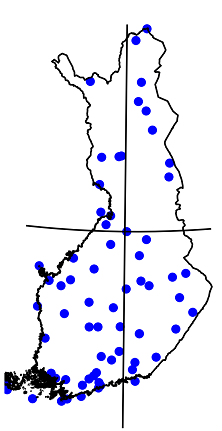
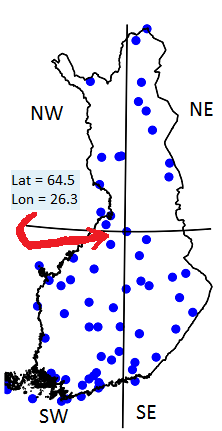
Modified image

diff --git a/README.md b/README.md
@@ -59,8 +59,10 @@ Fill in the missing parts in the starter code [classify_temperatures.py](classif
 
 ## Problem 3 - Classifying locations
 
-This problem continues our classification theme from the geographical perspective. The following map shows the locations
-of the weather stations in Finland that are older than 50 years.
+This problem continues our classification theme from the geographical perspective.
+
+Following map shows the locations of the weather stations (blue points) in Finland that are older than 50 years.
+In this problem we are interested to classify those stations
 
 ![](img/FMI_stations_50_years_older.png)
 
